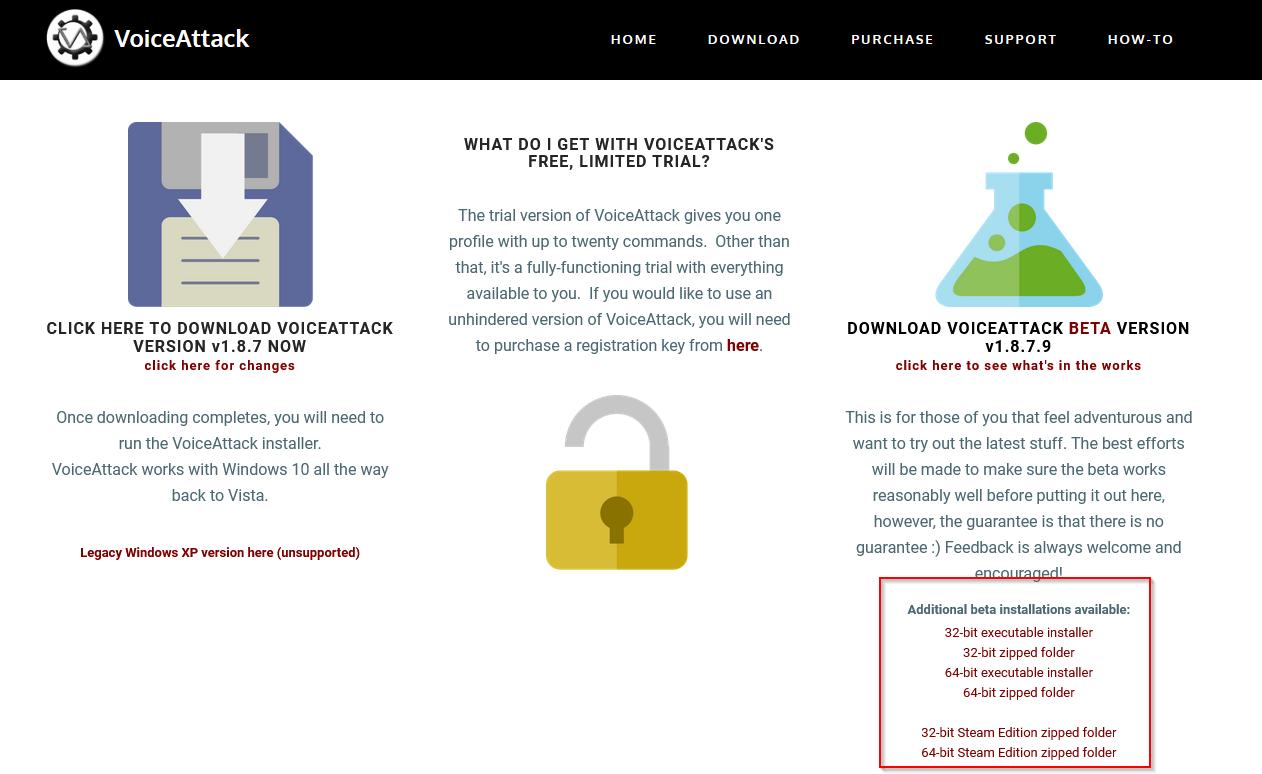
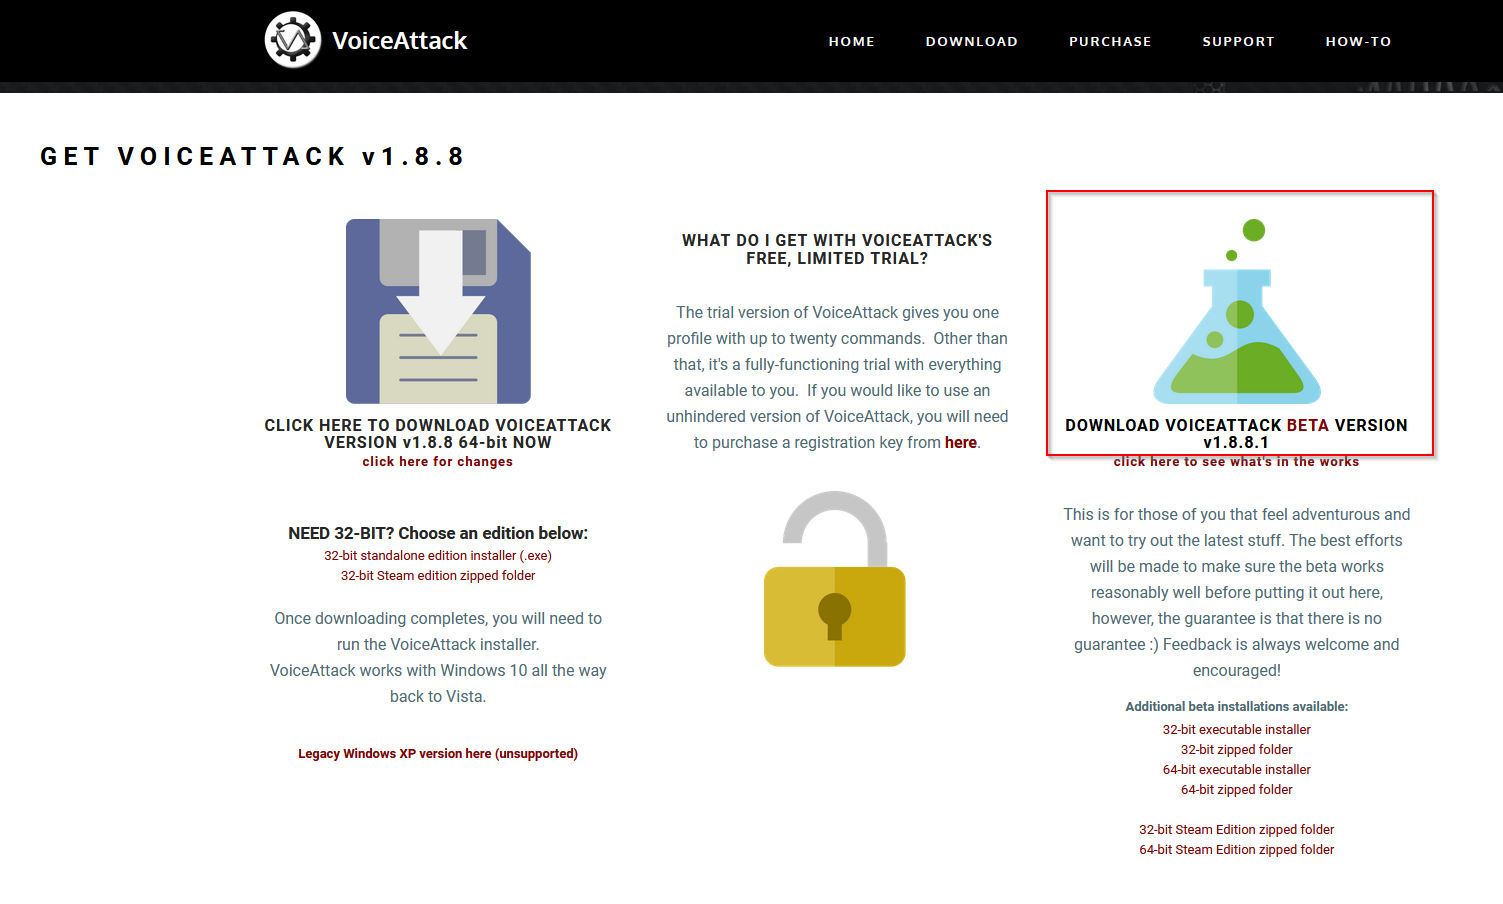
docs: update installation instructions

diff --git a/docs/installing.md b/docs/installing.md
@@ -13,6 +13,10 @@ its contents.
 
 ![[VoiceAttack-download.png]]
 
+I’m usually incorporating beta features / fixes as soon as they are available.
+There might not be a beta version at the time you’re reading this, just get the
+full release then.
+
 [Here is the first hit on a Google search for finding the installation
 folder](https://steamcommunity.com/sharedfiles/filedetails/?id=760447682). It is
 for a completely unrelated game, but the steps are the same.

diff --git a/CHANGELOG.md b/CHANGELOG.md
@@ -1,5 +1,8 @@
 # devel
 
+* Updated documentation for the switch to 64-bit as the standard VoiceAttack
+  distribution format.
+
 ## RatAttack 6.2.3
 
 ### Fixed
